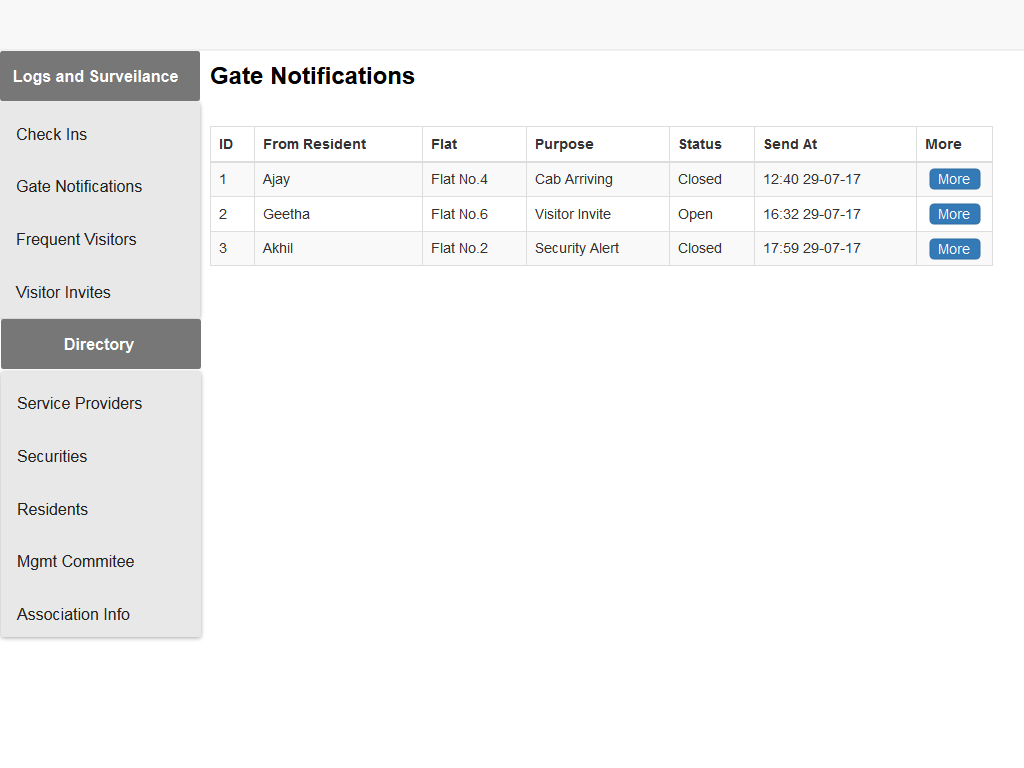
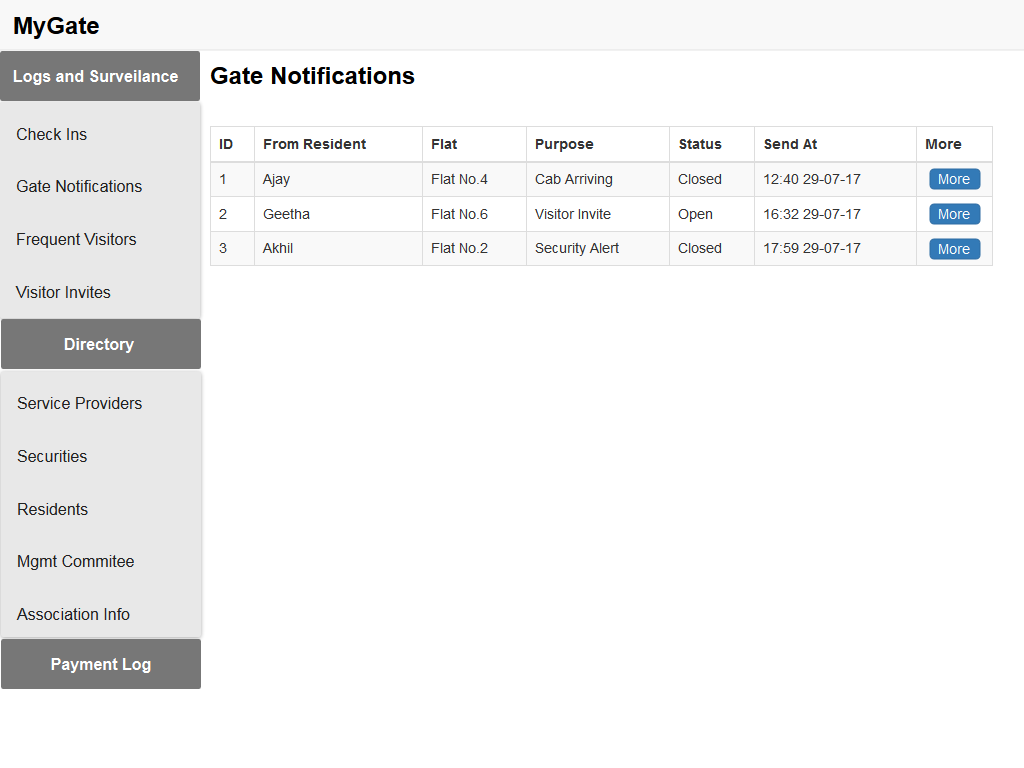
association_panel draft

Changed region(s): [[0.0, 0.8125, 0.2188, 0.9062], [0.0, 0.0, 0.0938, 0.0625]]

diff --git a/association_panel/index.html b/association_panel/index.html
@@ -1,3 +1,3 @@
 <html xmlns="http://www.w3.org/1999/xhtml"><head><meta http-equiv="Content-Type" content="text/html; charset=UTF-8" /><meta name="viewport" content="width=device-width, initial-scale=1" /><title>association_panel_with_menu's_and_links.ep</title><script type="text/javascript" src="Resources/Script.js">
                     //
-                </script></head><body><div id="page"><div id="content"><div class="Page" id="1_assciation_info_page"><div class="Image"><img width="1024" height="768" src="pages/1_assciation_info.png" usemap="#map_1_assciation_info" id="1_assciation_info_page_image" /><div class="ImageFooter"> </div><map name="map_1_assciation_info"><area shape="rect" coords="0,380,200,422" href="#ii1_service_provider_page" /><area shape="rect" coords="1,436,201,478" href="#ii2_security_page" /><area shape="rect" coords="0,164,200,206" href="#2_gate_notifications_page" /><area shape="rect" coords="1,111,201,153" href="#1_check_ins_page" /><area shape="rect" coords="0,489,200,531" href="#2_residents_page" /><area shape="rect" coords="1,595,201,637" href="#1_assciation_info_page" /><area shape="rect" coords="299,643,379,668" href="#3_flat_view_page" /><area shape="rect" coords="299,524,379,549" href="#3_flat_view_page" /><area shape="rect" coords="299,409,379,434" href="#3_flat_view_page" /><area shape="rect" coords="299,297,379,322" href="#3_flat_view_page" /><area shape="rect" coords="299,188,379,213" href="#3_flat_view_page" /><area shape="rect" coords="307,699,387,724" href="#21_residents_view_page" /><area shape="rect" coords="307,673,387,698" href="#21_residents_view_page" /><area shape="rect" coords="528,673,608,698" href="#21_residents_view_page" /><area shape="rect" coords="528,699,608,724" href="#21_residents_view_page" /><area shape="rect" coords="773,673,853,698" href="#21_residents_view_page" /><area shape="rect" coords="770,558,850,583" href="#21_residents_view_page" /><area shape="rect" coords="528,558,608,583" href="#21_residents_view_page" /><area shape="rect" coords="307,558,387,583" href="#21_residents_view_page" /><area shape="rect" coords="307,443,387,468" href="#21_residents_view_page" /><area shape="rect" coords="307,330,387,355" href="#21_residents_view_page" /><area shape="rect" coords="528,330,608,355" href="#21_residents_view_page" /><area shape="rect" coords="773,221,853,246" href="#21_residents_view_page" /><area shape="rect" coords="528,221,608,246" href="#21_residents_view_page" /><area shape="rect" coords="528,246,608,271" href="#21_residents_view_page" /><area shape="rect" coords="307,246,387,271" href="#21_residents_view_page" /><area shape="rect" coords="307,221,387,246" href="#21_residents_view_page" /><area shape="rect" coords="356.25,100.75,454.25,142.75" href="#11_assciation_info_block_2_page" /></map></div></div><div class="Page" id="11_assciation_info_block_2_page"><div class="Image"><img width="1024" height="768" src="pages/11_assciation_info_block_2.png" usemap="#map_11_assciation_info_block_2" id="11_assciation_info_block_2_page_image" /><div class="ImageFooter"> </div><map name="map_11_assciation_info_block_2"><area shape="rect" coords="0,380,200,422" href="#ii1_service_provider_page" /><area shape="rect" coords="1,436,201,478" href="#ii2_security_page" /><area shape="rect" coords="0,164,200,206" href="#2_gate_notifications_page" /><area shape="rect" coords="1,111,201,153" href="#1_check_ins_page" /><area shape="rect" coords="0,489,200,531" href="#2_residents_page" /><area shape="rect" coords="1,595,201,637" href="#1_assciation_info_page" /><area shape="rect" coords="299,643,379,668" href="#3_flat_view_page" /><area shape="rect" coords="299,524,379,549" href="#3_flat_view_page" /><area shape="rect" coords="299,409,379,434" href="#3_flat_view_page" /><area shape="rect" coords="299,297,379,322" href="#3_flat_view_page" /><area shape="rect" coords="299,188,379,213" href="#3_flat_view_page" /><area shape="rect" coords="307,699,387,724" href="#21_residents_view_page" /><area shape="rect" coords="307,673,387,698" href="#21_residents_view_page" /><area shape="rect" coords="528,673,608,698" href="#21_residents_view_page" /><area shape="rect" coords="528,699,608,724" href="#21_residents_view_page" /><area shape="rect" coords="773,673,853,698" href="#21_residents_view_page" /><area shape="rect" coords="770,558,850,583" href="#21_residents_view_page" /><area shape="rect" coords="528,558,608,583" href="#21_residents_view_page" /><area shape="rect" coords="307,558,387,583" href="#21_residents_view_page" /><area shape="rect" coords="307,443,387,468" href="#21_residents_view_page" /><area shape="rect" coords="307,330,387,355" href="#21_residents_view_page" /><area shape="rect" coords="528,330,608,355" href="#21_residents_view_page" /><area shape="rect" coords="773,221,853,246" href="#21_residents_view_page" /><area shape="rect" coords="528,221,608,246" href="#21_residents_view_page" /><area shape="rect" coords="528,246,608,271" href="#21_residents_view_page" /><area shape="rect" coords="307,246,387,271" href="#21_residents_view_page" /><area shape="rect" coords="307,221,387,246" href="#21_residents_view_page" /><area shape="rect" coords="254.25,100.75,352.25,142.75" href="#1_assciation_info_page" /></map></div></div><div class="Page" id="2_residents_page"><div class="Image"><img width="1024" height="768" src="pages/2_residents.png" usemap="#map_2_residents" id="2_residents_page_image" /><div class="ImageFooter"> </div><map name="map_2_residents"><area shape="rect" coords="0,380,200,422" href="#ii1_service_provider_page" /><area shape="rect" coords="1,436,201,478" href="#ii2_security_page" /><area shape="rect" coords="0,164,200,206" href="#2_gate_notifications_page" /><area shape="rect" coords="1,111,201,153" href="#1_check_ins_page" /><area shape="rect" coords="0,489,200,531" href="#2_residents_page" /><area shape="rect" coords="1,595,201,637" href="#1_assciation_info_page" /><area shape="rect" coords="269,412,345,433" href="#21_residents_view_page" /><area shape="rect" coords="266,373,342,394" href="#21_residents_view_page" /><area shape="rect" coords="266,332,342,353" href="#21_residents_view_page" /><area shape="rect" coords="270,294,346,315" href="#21_residents_view_page" /><area shape="rect" coords="269,254,345,275" href="#21_residents_view_page" /><area shape="rect" coords="270,215,346,236" href="#21_residents_view_page" /><area shape="rect" coords="269,176,345,197" href="#21_residents_view_page" /><area shape="rect" coords="889,170,968,202" href="#21_residents_view_page" /><area shape="rect" coords="889,405,968,437" href="#21_residents_view_page" /><area shape="rect" coords="889,366,968,398" href="#21_residents_view_page" /><area shape="rect" coords="889,327,968,359" href="#21_residents_view_page" /><area shape="rect" coords="889,250,968,282" href="#21_residents_view_page" /><area shape="rect" coords="889,211,968,243" href="#21_residents_view_page" /><area shape="rect" coords="889,290,968,322" href="#21_residents_view_page" /></map></div></div><div class="Page" id="21_residents_view_page"><div class="Image"><img width="1024" height="768" src="pages/21_residents_view.png" usemap="#map_21_residents_view" id="21_residents_view_page_image" /><div class="ImageFooter"> </div><map name="map_21_residents_view"><area shape="rect" coords="0,380,200,422" href="#ii1_service_provider_page" /><area shape="rect" coords="1,436,201,478" href="#ii2_security_page" /><area shape="rect" coords="0,164,200,206" href="#2_gate_notifications_page" /><area shape="rect" coords="1,111,201,153" href="#1_check_ins_page" /><area shape="rect" coords="0,489,200,531" href="#2_residents_page" /><area shape="rect" coords="1,595,201,637" href="#1_assciation_info_page" /><area shape="rect" coords="214,183,389,208" href="#3_flat_view_page" /></map></div></div><div class="Page" id="3_flat_view_page"><div class="Image"><img width="1024" height="768" src="pages/3_flat_view.png" usemap="#map_3_flat_view" id="3_flat_view_page_image" /><div class="ImageFooter"> </div><map name="map_3_flat_view"><area shape="rect" coords="0,380,200,422" href="#ii1_service_provider_page" /><area shape="rect" coords="1,436,201,478" href="#ii2_security_page" /><area shape="rect" coords="0,164,200,206" href="#2_gate_notifications_page" /><area shape="rect" coords="1,111,201,153" href="#1_check_ins_page" /><area shape="rect" coords="0,489,200,531" href="#2_residents_page" /><area shape="rect" coords="1,595,201,637" href="#1_assciation_info_page" /><area shape="rect" coords="214,266,290,287" href="#21_residents_view_page" /><area shape="rect" coords="215,227,291,248" href="#21_residents_view_page" /><area shape="rect" coords="214,188,290,209" href="#21_residents_view_page" /></map></div></div><div class="Page" id="1_check_ins_page"><div class="Image"><img width="1024" height="768" src="pages/1_check_ins.png" usemap="#map_1_check_ins" id="1_check_ins_page_image" /><div class="ImageFooter"> </div><map name="map_1_check_ins"><area shape="rect" coords="0,380,200,422" href="#ii1_service_provider_page" /><area shape="rect" coords="1,436,201,478" href="#ii2_security_page" /><area shape="rect" coords="0,164,200,206" href="#2_gate_notifications_page" /><area shape="rect" coords="1,111,201,153" href="#1_check_ins_page" /><area shape="rect" coords="0,489,200,531" href="#2_residents_page" /><area shape="rect" coords="1,595,201,637" href="#1_assciation_info_page" /></map></div></div><div class="Page" id="2_gate_notifications_page"><div class="Image"><img width="1024" height="768" src="pages/2_gate_notifications.png" usemap="#map_2_gate_notifications" id="2_gate_notifications_page_image" /><div class="ImageFooter"> </div><map name="map_2_gate_notifications"><area shape="rect" coords="0,380,200,422" href="#ii1_service_provider_page" /><area shape="rect" coords="1,436,201,478" href="#ii2_security_page" /><area shape="rect" coords="0,164,200,206" href="#2_gate_notifications_page" /><area shape="rect" coords="1,111,201,153" href="#1_check_ins_page" /><area shape="rect" coords="0,489,200,531" href="#2_residents_page" /><area shape="rect" coords="1,595,201,637" href="#1_assciation_info_page" /></map></div></div><div class="Page" id="ii2_security_page"><div class="Image"><img width="1024" height="768" src="pages/ii2_security.png" usemap="#map_ii2_security" id="ii2_security_page_image" /><div class="ImageFooter"> </div><map name="map_ii2_security"><area shape="rect" coords="0,380,200,422" href="#ii1_service_provider_page" /><area shape="rect" coords="1,436,201,478" href="#ii2_security_page" /><area shape="rect" coords="0,164,200,206" href="#2_gate_notifications_page" /><area shape="rect" coords="1,111,201,153" href="#1_check_ins_page" /><area shape="rect" coords="0,489,200,531" href="#2_residents_page" /><area shape="rect" coords="1,595,201,637" href="#1_assciation_info_page" /><area shape="rect" coords="781,172,860,204" href="#ii21_security_view_page" /><area shape="rect" coords="781,252,860,284" href="#ii21_security_view_page" /><area shape="rect" coords="781,213,860,245" href="#ii21_security_view_page" /></map></div></div><div class="Page" id="ii21_security_view_page"><div class="Image"><img width="1024" height="768" src="pages/ii21_security_view.png" usemap="#map_ii21_security_view" id="ii21_security_view_page_image" /><div class="ImageFooter"> </div><map name="map_ii21_security_view"><area shape="rect" coords="0,380,200,422" href="#ii1_service_provider_page" /><area shape="rect" coords="1,436,201,478" href="#ii2_security_page" /><area shape="rect" coords="0,164,200,206" href="#2_gate_notifications_page" /><area shape="rect" coords="1,111,201,153" href="#1_check_ins_page" /><area shape="rect" coords="0,489,200,531" href="#2_residents_page" /><area shape="rect" coords="1,595,201,637" href="#1_assciation_info_page" /></map></div></div><div class="Page" id="ii1_service_provider_page"><div class="Image"><img width="1024" height="768" src="pages/ii1_service_provider.png" usemap="#map_ii1_service_provider" id="ii1_service_provider_page_image" /><div class="ImageFooter"> </div><map name="map_ii1_service_provider"><area shape="rect" coords="0,380,200,422" href="#ii1_service_provider_page" /><area shape="rect" coords="1,436,201,478" href="#ii2_security_page" /><area shape="rect" coords="0,164,200,206" href="#2_gate_notifications_page" /><area shape="rect" coords="1,111,201,153" href="#1_check_ins_page" /><area shape="rect" coords="0,489,200,531" href="#2_residents_page" /><area shape="rect" coords="1,595,201,637" href="#1_assciation_info_page" /><area shape="rect" coords="835,169,914,201" href="#ii21_security_view_page" /><area shape="rect" coords="835,249,914,281" href="#ii21_security_view_page" /><area shape="rect" coords="835,210,914,242" href="#ii21_security_view_page" /></map></div></div><div class="Page" id="ii21_service_provider_view_page"><div class="Image"><img width="1024" height="768" src="pages/ii21_service_provider_view.png" usemap="#map_ii21_service_provider_view" id="ii21_service_provider_view_page_image" /><div class="ImageFooter"> </div><map name="map_ii21_service_provider_view"><area shape="rect" coords="0,380,200,422" href="#ii1_service_provider_page" /><area shape="rect" coords="1,436,201,478" href="#ii2_security_page" /><area shape="rect" coords="0,164,200,206" href="#2_gate_notifications_page" /><area shape="rect" coords="1,111,201,153" href="#1_check_ins_page" /><area shape="rect" coords="0,489,200,531" href="#2_residents_page" /><area shape="rect" coords="1,595,201,637" href="#1_assciation_info_page" /></map></div></div></div></div></body></html>
+                </script></head><body><div id="page"><div id="content"><div class="Page" id="ii5_assciation_info_page"><div class="Image"><img width="1024" height="768" src="pages/ii5_assciation_info.png" usemap="#map_ii5_assciation_info" id="ii5_assciation_info_page_image" /><div class="ImageFooter"> </div><map name="map_ii5_assciation_info"><area shape="rect" coords="1,639,201,689" href="#iii_payment_log_page" /><area shape="rect" coords="0,218,200,260" href="#3_frequent_visitors_page" /><area shape="rect" coords="1,272,201,314" href="#4_visitor_invites_page" /><area shape="rect" coords="0,538,200,580" href="#ii3_management_commitee_page" /><area shape="rect" coords="0,380,200,422" href="#ii1_service_provider_page" /><area shape="rect" coords="1,436,201,478" href="#ii2_security_page" /><area shape="rect" coords="0,164,200,206" href="#2_gate_notifications_page" /><area shape="rect" coords="1,111,201,153" href="#1_check_ins_page" /><area shape="rect" coords="0,489,200,531" href="#2_residents_page" /><area shape="rect" coords="1,595,201,637" href="#ii5_assciation_info_page" /><area shape="rect" coords="299,643,379,668" href="#3_flat_view_page" /><area shape="rect" coords="299,524,379,549" href="#3_flat_view_page" /><area shape="rect" coords="299,409,379,434" href="#3_flat_view_page" /><area shape="rect" coords="299,297,379,322" href="#3_flat_view_page" /><area shape="rect" coords="299,188,379,213" href="#3_flat_view_page" /><area shape="rect" coords="307,699,387,724" href="#21_residents_view_page" /><area shape="rect" coords="307,673,387,698" href="#21_residents_view_page" /><area shape="rect" coords="528,673,608,698" href="#21_residents_view_page" /><area shape="rect" coords="528,699,608,724" href="#21_residents_view_page" /><area shape="rect" coords="773,673,853,698" href="#21_residents_view_page" /><area shape="rect" coords="770,558,850,583" href="#21_residents_view_page" /><area shape="rect" coords="528,558,608,583" href="#21_residents_view_page" /><area shape="rect" coords="307,558,387,583" href="#21_residents_view_page" /><area shape="rect" coords="307,443,387,468" href="#21_residents_view_page" /><area shape="rect" coords="307,330,387,355" href="#21_residents_view_page" /><area shape="rect" coords="528,330,608,355" href="#21_residents_view_page" /><area shape="rect" coords="773,221,853,246" href="#21_residents_view_page" /><area shape="rect" coords="528,221,608,246" href="#21_residents_view_page" /><area shape="rect" coords="528,246,608,271" href="#21_residents_view_page" /><area shape="rect" coords="307,246,387,271" href="#21_residents_view_page" /><area shape="rect" coords="307,221,387,246" href="#21_residents_view_page" /><area shape="rect" coords="356.25,100.75,454.25,142.75" href="#ii51_assciation_info_block_2_page" /></map></div></div><div class="Page" id="ii51_assciation_info_block_2_page"><div class="Image"><img width="1024" height="768" src="pages/ii51_assciation_info_block_2.png" usemap="#map_ii51_assciation_info_block_2" id="ii51_assciation_info_block_2_page_image" /><div class="ImageFooter"> </div><map name="map_ii51_assciation_info_block_2"><area shape="rect" coords="1,639,201,689" href="#iii_payment_log_page" /><area shape="rect" coords="0,218,200,260" href="#3_frequent_visitors_page" /><area shape="rect" coords="1,272,201,314" href="#4_visitor_invites_page" /><area shape="rect" coords="0,538,200,580" href="#ii3_management_commitee_page" /><area shape="rect" coords="0,380,200,422" href="#ii1_service_provider_page" /><area shape="rect" coords="1,436,201,478" href="#ii2_security_page" /><area shape="rect" coords="0,164,200,206" href="#2_gate_notifications_page" /><area shape="rect" coords="1,111,201,153" href="#1_check_ins_page" /><area shape="rect" coords="0,489,200,531" href="#2_residents_page" /><area shape="rect" coords="1,595,201,637" href="#ii5_assciation_info_page" /><area shape="rect" coords="299,643,379,668" href="#3_flat_view_page" /><area shape="rect" coords="299,524,379,549" href="#3_flat_view_page" /><area shape="rect" coords="299,409,379,434" href="#3_flat_view_page" /><area shape="rect" coords="299,297,379,322" href="#3_flat_view_page" /><area shape="rect" coords="299,188,379,213" href="#3_flat_view_page" /><area shape="rect" coords="307,699,387,724" href="#21_residents_view_page" /><area shape="rect" coords="307,673,387,698" href="#21_residents_view_page" /><area shape="rect" coords="528,673,608,698" href="#21_residents_view_page" /><area shape="rect" coords="528,699,608,724" href="#21_residents_view_page" /><area shape="rect" coords="773,673,853,698" href="#21_residents_view_page" /><area shape="rect" coords="770,558,850,583" href="#21_residents_view_page" /><area shape="rect" coords="528,558,608,583" href="#21_residents_view_page" /><area shape="rect" coords="307,558,387,583" href="#21_residents_view_page" /><area shape="rect" coords="307,443,387,468" href="#21_residents_view_page" /><area shape="rect" coords="307,330,387,355" href="#21_residents_view_page" /><area shape="rect" coords="528,330,608,355" href="#21_residents_view_page" /><area shape="rect" coords="773,221,853,246" href="#21_residents_view_page" /><area shape="rect" coords="528,221,608,246" href="#21_residents_view_page" /><area shape="rect" coords="528,246,608,271" href="#21_residents_view_page" /><area shape="rect" coords="307,246,387,271" href="#21_residents_view_page" /><area shape="rect" coords="307,221,387,246" href="#21_residents_view_page" /><area shape="rect" coords="254.25,100.75,352.25,142.75" href="#ii5_assciation_info_page" /></map></div></div><div class="Page" id="2_residents_page"><div class="Image"><img width="1024" height="768" src="pages/2_residents.png" usemap="#map_2_residents" id="2_residents_page_image" /><div class="ImageFooter"> </div><map name="map_2_residents"><area shape="rect" coords="1,639,201,689" href="#iii_payment_log_page" /><area shape="rect" coords="0,218,200,260" href="#3_frequent_visitors_page" /><area shape="rect" coords="1,272,201,314" href="#4_visitor_invites_page" /><area shape="rect" coords="0,538,200,580" href="#ii3_management_commitee_page" /><area shape="rect" coords="0,380,200,422" href="#ii1_service_provider_page" /><area shape="rect" coords="1,436,201,478" href="#ii2_security_page" /><area shape="rect" coords="0,164,200,206" href="#2_gate_notifications_page" /><area shape="rect" coords="1,111,201,153" href="#1_check_ins_page" /><area shape="rect" coords="0,489,200,531" href="#2_residents_page" /><area shape="rect" coords="1,595,201,637" href="#ii5_assciation_info_page" /><area shape="rect" coords="269,412,345,433" href="#21_residents_view_page" /><area shape="rect" coords="266,373,342,394" href="#21_residents_view_page" /><area shape="rect" coords="266,332,342,353" href="#21_residents_view_page" /><area shape="rect" coords="270,294,346,315" href="#21_residents_view_page" /><area shape="rect" coords="269,254,345,275" href="#21_residents_view_page" /><area shape="rect" coords="270,215,346,236" href="#21_residents_view_page" /><area shape="rect" coords="269,176,345,197" href="#21_residents_view_page" /><area shape="rect" coords="889,170,968,202" href="#21_residents_view_page" /><area shape="rect" coords="889,405,968,437" href="#21_residents_view_page" /><area shape="rect" coords="889,366,968,398" href="#21_residents_view_page" /><area shape="rect" coords="889,327,968,359" href="#21_residents_view_page" /><area shape="rect" coords="889,250,968,282" href="#21_residents_view_page" /><area shape="rect" coords="889,211,968,243" href="#21_residents_view_page" /><area shape="rect" coords="889,290,968,322" href="#21_residents_view_page" /></map></div></div><div class="Page" id="21_residents_view_page"><div class="Image"><img width="1024" height="768" src="pages/21_residents_view.png" usemap="#map_21_residents_view" id="21_residents_view_page_image" /><div class="ImageFooter"> </div><map name="map_21_residents_view"><area shape="rect" coords="1,639,201,689" href="#iii_payment_log_page" /><area shape="rect" coords="0,218,200,260" href="#3_frequent_visitors_page" /><area shape="rect" coords="1,272,201,314" href="#4_visitor_invites_page" /><area shape="rect" coords="0,538,200,580" href="#ii3_management_commitee_page" /><area shape="rect" coords="0,380,200,422" href="#ii1_service_provider_page" /><area shape="rect" coords="1,436,201,478" href="#ii2_security_page" /><area shape="rect" coords="0,164,200,206" href="#2_gate_notifications_page" /><area shape="rect" coords="1,111,201,153" href="#1_check_ins_page" /><area shape="rect" coords="0,489,200,531" href="#2_residents_page" /><area shape="rect" coords="1,595,201,637" href="#ii5_assciation_info_page" /><area shape="rect" coords="214,183,389,208" href="#3_flat_view_page" /></map></div></div><div class="Page" id="3_flat_view_page"><div class="Image"><img width="1024" height="768" src="pages/3_flat_view.png" usemap="#map_3_flat_view" id="3_flat_view_page_image" /><div class="ImageFooter"> </div><map name="map_3_flat_view"><area shape="rect" coords="1,639,201,689" href="#iii_payment_log_page" /><area shape="rect" coords="0,218,200,260" href="#3_frequent_visitors_page" /><area shape="rect" coords="1,272,201,314" href="#4_visitor_invites_page" /><area shape="rect" coords="0,538,200,580" href="#ii3_management_commitee_page" /><area shape="rect" coords="0,380,200,422" href="#ii1_service_provider_page" /><area shape="rect" coords="1,436,201,478" href="#ii2_security_page" /><area shape="rect" coords="0,164,200,206" href="#2_gate_notifications_page" /><area shape="rect" coords="1,111,201,153" href="#1_check_ins_page" /><area shape="rect" coords="0,489,200,531" href="#2_residents_page" /><area shape="rect" coords="1,595,201,637" href="#ii5_assciation_info_page" /><area shape="rect" coords="214,266,290,287" href="#21_residents_view_page" /><area shape="rect" coords="215,227,291,248" href="#21_residents_view_page" /><area shape="rect" coords="214,188,290,209" href="#21_residents_view_page" /></map></div></div><div class="Page" id="1_check_ins_page"><div class="Image"><img width="1024" height="768" src="pages/1_check_ins.png" usemap="#map_1_check_ins" id="1_check_ins_page_image" /><div class="ImageFooter"> </div><map name="map_1_check_ins"><area shape="rect" coords="1,639,201,689" href="#iii_payment_log_page" /><area shape="rect" coords="0,218,200,260" href="#3_frequent_visitors_page" /><area shape="rect" coords="1,272,201,314" href="#4_visitor_invites_page" /><area shape="rect" coords="0,538,200,580" href="#ii3_management_commitee_page" /><area shape="rect" coords="0,380,200,422" href="#ii1_service_provider_page" /><area shape="rect" coords="1,436,201,478" href="#ii2_security_page" /><area shape="rect" coords="0,164,200,206" href="#2_gate_notifications_page" /><area shape="rect" coords="1,111,201,153" href="#1_check_ins_page" /><area shape="rect" coords="0,489,200,531" href="#2_residents_page" /><area shape="rect" coords="1,595,201,637" href="#ii5_assciation_info_page" /></map></div></div><div class="Page" id="2_gate_notifications_page"><div class="Image"><img width="1024" height="768" src="pages/2_gate_notifications.png" usemap="#map_2_gate_notifications" id="2_gate_notifications_page_image" /><div class="ImageFooter"> </div><map name="map_2_gate_notifications"><area shape="rect" coords="1,639,201,689" href="#iii_payment_log_page" /><area shape="rect" coords="0,218,200,260" href="#3_frequent_visitors_page" /><area shape="rect" coords="1,272,201,314" href="#4_visitor_invites_page" /><area shape="rect" coords="0,538,200,580" href="#ii3_management_commitee_page" /><area shape="rect" coords="0,380,200,422" href="#ii1_service_provider_page" /><area shape="rect" coords="1,436,201,478" href="#ii2_security_page" /><area shape="rect" coords="0,164,200,206" href="#2_gate_notifications_page" /><area shape="rect" coords="1,111,201,153" href="#1_check_ins_page" /><area shape="rect" coords="0,489,200,531" href="#2_residents_page" /><area shape="rect" coords="1,595,201,637" href="#ii5_assciation_info_page" /></map></div></div><div class="Page" id="ii2_security_page"><div class="Image"><img width="1024" height="768" src="pages/ii2_security.png" usemap="#map_ii2_security" id="ii2_security_page_image" /><div class="ImageFooter"> </div><map name="map_ii2_security"><area shape="rect" coords="1,639,201,689" href="#iii_payment_log_page" /><area shape="rect" coords="0,218,200,260" href="#3_frequent_visitors_page" /><area shape="rect" coords="1,272,201,314" href="#4_visitor_invites_page" /><area shape="rect" coords="0,538,200,580" href="#ii3_management_commitee_page" /><area shape="rect" coords="0,380,200,422" href="#ii1_service_provider_page" /><area shape="rect" coords="1,436,201,478" href="#ii2_security_page" /><area shape="rect" coords="0,164,200,206" href="#2_gate_notifications_page" /><area shape="rect" coords="1,111,201,153" href="#1_check_ins_page" /><area shape="rect" coords="0,489,200,531" href="#2_residents_page" /><area shape="rect" coords="1,595,201,637" href="#ii5_assciation_info_page" /><area shape="rect" coords="800,172,879,204" href="#ii21_security_view_page" /><area shape="rect" coords="800,252,879,284" href="#ii21_security_view_page" /><area shape="rect" coords="800,213,879,245" href="#ii21_security_view_page" /></map></div></div><div class="Page" id="ii21_security_view_page"><div class="Image"><img width="1024" height="768" src="pages/ii21_security_view.png" usemap="#map_ii21_security_view" id="ii21_security_view_page_image" /><div class="ImageFooter"> </div><map name="map_ii21_security_view"><area shape="rect" coords="1,639,201,689" href="#iii_payment_log_page" /><area shape="rect" coords="0,218,200,260" href="#3_frequent_visitors_page" /><area shape="rect" coords="1,272,201,314" href="#4_visitor_invites_page" /><area shape="rect" coords="0,538,200,580" href="#ii3_management_commitee_page" /><area shape="rect" coords="0,380,200,422" href="#ii1_service_provider_page" /><area shape="rect" coords="1,436,201,478" href="#ii2_security_page" /><area shape="rect" coords="0,164,200,206" href="#2_gate_notifications_page" /><area shape="rect" coords="1,111,201,153" href="#1_check_ins_page" /><area shape="rect" coords="0,489,200,531" href="#2_residents_page" /><area shape="rect" coords="1,595,201,637" href="#ii5_assciation_info_page" /></map></div></div><div class="Page" id="ii1_service_provider_page"><div class="Image"><img width="1024" height="768" src="pages/ii1_service_provider.png" usemap="#map_ii1_service_provider" id="ii1_service_provider_page_image" /><div class="ImageFooter"> </div><map name="map_ii1_service_provider"><area shape="rect" coords="1,639,201,689" href="#iii_payment_log_page" /><area shape="rect" coords="0,218,200,260" href="#3_frequent_visitors_page" /><area shape="rect" coords="1,272,201,314" href="#4_visitor_invites_page" /><area shape="rect" coords="0,538,200,580" href="#ii3_management_commitee_page" /><area shape="rect" coords="0,380,200,422" href="#ii1_service_provider_page" /><area shape="rect" coords="1,436,201,478" href="#ii2_security_page" /><area shape="rect" coords="0,164,200,206" href="#2_gate_notifications_page" /><area shape="rect" coords="1,111,201,153" href="#1_check_ins_page" /><area shape="rect" coords="0,489,200,531" href="#2_residents_page" /><area shape="rect" coords="1,595,201,637" href="#ii5_assciation_info_page" /><area shape="rect" coords="854,170,933,202" href="#ii11_service_provider_view_page" /><area shape="rect" coords="854,250,933,282" href="#ii11_service_provider_view_page" /><area shape="rect" coords="854,211,933,243" href="#ii11_service_provider_view_page" /></map></div></div><div class="Page" id="ii11_service_provider_view_page"><div class="Image"><img width="1024" height="768" src="pages/ii11_service_provider_view.png" usemap="#map_ii11_service_provider_view" id="ii11_service_provider_view_page_image" /><div class="ImageFooter"> </div><map name="map_ii11_service_provider_view"><area shape="rect" coords="1,639,201,689" href="#iii_payment_log_page" /><area shape="rect" coords="-1,220,199,262" href="#3_frequent_visitors_page" /><area shape="rect" coords="1,272,201,314" href="#4_visitor_invites_page" /><area shape="rect" coords="0,538,200,580" href="#ii3_management_commitee_page" /><area shape="rect" coords="0,380,200,422" href="#ii1_service_provider_page" /><area shape="rect" coords="1,436,201,478" href="#ii2_security_page" /><area shape="rect" coords="0,164,200,206" href="#2_gate_notifications_page" /><area shape="rect" coords="1,111,201,153" href="#1_check_ins_page" /><area shape="rect" coords="0,489,200,531" href="#2_residents_page" /><area shape="rect" coords="1,595,201,637" href="#ii5_assciation_info_page" /></map></div></div><div class="Page" id="ii3_management_commitee_page"><div class="Image"><img width="1024" height="768" src="pages/ii3_management_commitee.png" usemap="#map_ii3_management_commitee" id="ii3_management_commitee_page_image" /><div class="ImageFooter"> </div><map name="map_ii3_management_commitee"><area shape="rect" coords="1,639,201,689" href="#iii_payment_log_page" /><area shape="rect" coords="1,272,201,314" href="#4_visitor_invites_page" /><area shape="rect" coords="0,218,200,260" href="#3_frequent_visitors_page" /><area shape="rect" coords="0,538,200,580" href="#ii3_management_commitee_page" /><area shape="rect" coords="1,436,201,478" href="#ii2_security_page" /><area shape="rect" coords="0,380,200,422" href="#ii1_service_provider_page" /><area shape="rect" coords="1,436,201,478" href="#ii2_security_page" /><area shape="rect" coords="0,164,200,206" href="#2_gate_notifications_page" /><area shape="rect" coords="1,111,201,153" href="#1_check_ins_page" /><area shape="rect" coords="0,489,200,531" href="#2_residents_page" /><area shape="rect" coords="1,595,201,637" href="#ii5_assciation_info_page" /><area shape="rect" coords="804,170,883,202" href="#21_residents_view_page" /><area shape="rect" coords="804,211,883,243" href="#21_residents_view_page" /></map></div></div><div class="Page" id="3_frequent_visitors_page"><div class="Image"><img width="1024" height="768" src="pages/3_frequent_visitors.png" usemap="#map_3_frequent_visitors" id="3_frequent_visitors_page_image" /><div class="ImageFooter"> </div><map name="map_3_frequent_visitors"><area shape="rect" coords="1,639,201,689" href="#iii_payment_log_page" /><area shape="rect" coords="0,218,200,260" href="#3_frequent_visitors_page" /><area shape="rect" coords="1,272,201,314" href="#4_visitor_invites_page" /><area shape="rect" coords="0,538,200,580" href="#ii3_management_commitee_page" /><area shape="rect" coords="0,380,200,422" href="#ii1_service_provider_page" /><area shape="rect" coords="1,436,201,478" href="#ii2_security_page" /><area shape="rect" coords="0,164,200,206" href="#2_gate_notifications_page" /><area shape="rect" coords="1,111,201,153" href="#1_check_ins_page" /><area shape="rect" coords="0,489,200,531" href="#2_residents_page" /><area shape="rect" coords="1,595,201,637" href="#ii5_assciation_info_page" /><area shape="rect" coords="846,170,925,202" href="#21_residents_view_page" /><area shape="rect" coords="846,327,925,359" href="#21_residents_view_page" /><area shape="rect" coords="846,250,925,282" href="#21_residents_view_page" /><area shape="rect" coords="846,211,925,243" href="#21_residents_view_page" /><area shape="rect" coords="846,290,925,322" href="#21_residents_view_page" /></map></div></div><div class="Page" id="31_frequent_visitor_view_page"><div class="Image"><img width="1024" height="768" src="pages/31_frequent_visitor_view.png" usemap="#map_31_frequent_visitor_view" id="31_frequent_visitor_view_page_image" /><div class="ImageFooter"> </div><map name="map_31_frequent_visitor_view"><area shape="rect" coords="1,639,201,689" href="#iii_payment_log_page" /><area shape="rect" coords="0,218,200,260" href="#3_frequent_visitors_page" /><area shape="rect" coords="1,272,201,314" href="#4_visitor_invites_page" /><area shape="rect" coords="0,538,200,580" href="#ii3_management_commitee_page" /><area shape="rect" coords="0,380,200,422" href="#ii1_service_provider_page" /><area shape="rect" coords="1,436,201,478" href="#ii2_security_page" /><area shape="rect" coords="0,164,200,206" href="#2_gate_notifications_page" /><area shape="rect" coords="1,111,201,153" href="#1_check_ins_page" /><area shape="rect" coords="0,489,200,531" href="#2_residents_page" /><area shape="rect" coords="1,595,201,637" href="#ii5_assciation_info_page" /></map></div></div><div class="Page" id="4_visitor_invites_page"><div class="Image"><img width="1024" height="768" src="pages/4_visitor_invites.png" usemap="#map_4_visitor_invites" id="4_visitor_invites_page_image" /><div class="ImageFooter"> </div><map name="map_4_visitor_invites"><area shape="rect" coords="1,639,201,689" href="#iii_payment_log_page" /><area shape="rect" coords="0,218,200,260" href="#3_frequent_visitors_page" /><area shape="rect" coords="1,272,201,314" href="#4_visitor_invites_page" /><area shape="rect" coords="0,538,200,580" href="#ii3_management_commitee_page" /><area shape="rect" coords="0,380,200,422" href="#ii1_service_provider_page" /><area shape="rect" coords="1,436,201,478" href="#ii2_security_page" /><area shape="rect" coords="0,164,200,206" href="#2_gate_notifications_page" /><area shape="rect" coords="1,111,201,153" href="#1_check_ins_page" /><area shape="rect" coords="0,489,200,531" href="#2_residents_page" /><area shape="rect" coords="1,595,201,637" href="#ii5_assciation_info_page" /><area shape="rect" coords="846,170,925,202" href="#21_residents_view_page" /><area shape="rect" coords="846,211,925,243" href="#21_residents_view_page" /></map></div></div><div class="Page" id="41_visitor_invite_view_page"><div class="Image"><img width="1024" height="768" src="pages/41_visitor_invite_view.png" usemap="#map_41_visitor_invite_view" id="41_visitor_invite_view_page_image" /><div class="ImageFooter"> </div><map name="map_41_visitor_invite_view"><area shape="rect" coords="1,639,201,689" href="#iii_payment_log_page" /><area shape="rect" coords="0,218,200,260" href="#3_frequent_visitors_page" /><area shape="rect" coords="1,272,201,314" href="#4_visitor_invites_page" /><area shape="rect" coords="0,538,200,580" href="#ii3_management_commitee_page" /><area shape="rect" coords="0,380,200,422" href="#ii1_service_provider_page" /><area shape="rect" coords="1,436,201,478" href="#ii2_security_page" /><area shape="rect" coords="0,164,200,206" href="#2_gate_notifications_page" /><area shape="rect" coords="1,111,201,153" href="#1_check_ins_page" /><area shape="rect" coords="0,489,200,531" href="#2_residents_page" /><area shape="rect" coords="1,595,201,637" href="#ii5_assciation_info_page" /></map></div></div><div class="Page" id="iii_payment_log_page"><div class="Image"><img width="1024" height="768" src="pages/iii_payment_log.png" usemap="#map_iii_payment_log" id="iii_payment_log_page_image" /><div class="ImageFooter"> </div><map name="map_iii_payment_log"><area shape="rect" coords="1,639,201,689" href="#iii_payment_log_page" /><area shape="rect" coords="842,64,986,106" href="#iii1_new_payment_page" /><area shape="rect" coords="0,218,200,260" href="#3_frequent_visitors_page" /><area shape="rect" coords="1,272,201,314" href="#4_visitor_invites_page" /><area shape="rect" coords="0,538,200,580" href="#ii3_management_commitee_page" /><area shape="rect" coords="0,380,200,422" href="#ii1_service_provider_page" /><area shape="rect" coords="1,436,201,478" href="#ii2_security_page" /><area shape="rect" coords="0,164,200,206" href="#2_gate_notifications_page" /><area shape="rect" coords="1,111,201,153" href="#1_check_ins_page" /><area shape="rect" coords="0,489,200,531" href="#2_residents_page" /><area shape="rect" coords="1,595,201,637" href="#ii5_assciation_info_page" /></map></div></div><div class="Page" id="iii1_new_payment_page"><div class="Image"><img width="1024" height="768" src="pages/iii1_new_payment.png" usemap="#map_iii1_new_payment" id="iii1_new_payment_page_image" /><div class="ImageFooter"> </div><map name="map_iii1_new_payment"><area shape="rect" coords="1,639,201,689" href="#iii_payment_log_page" /><area shape="rect" coords="0,218,200,260" href="#3_frequent_visitors_page" /><area shape="rect" coords="1,272,201,314" href="#4_visitor_invites_page" /><area shape="rect" coords="0,538,200,580" href="#ii3_management_commitee_page" /><area shape="rect" coords="0,380,200,422" href="#ii1_service_provider_page" /><area shape="rect" coords="1,436,201,478" href="#ii2_security_page" /><area shape="rect" coords="0,164,200,206" href="#2_gate_notifications_page" /><area shape="rect" coords="1,111,201,153" href="#1_check_ins_page" /><area shape="rect" coords="0,489,200,531" href="#2_residents_page" /><area shape="rect" coords="1,595,201,637" href="#ii5_assciation_info_page" /></map></div></div></div></div></body></html>
